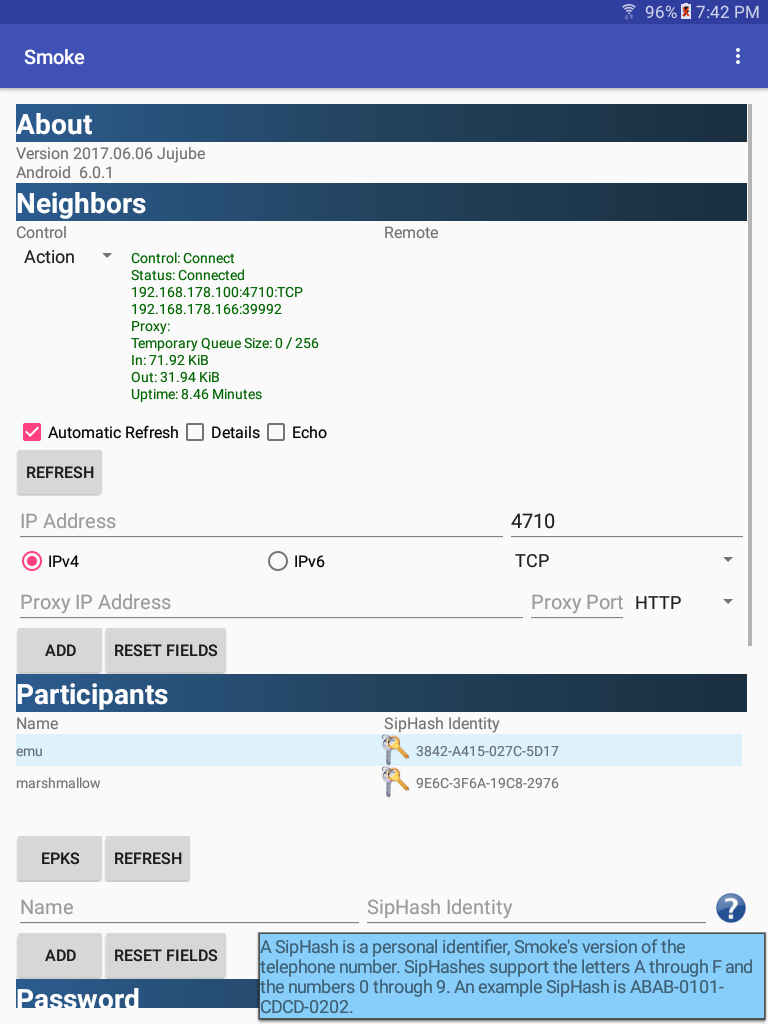
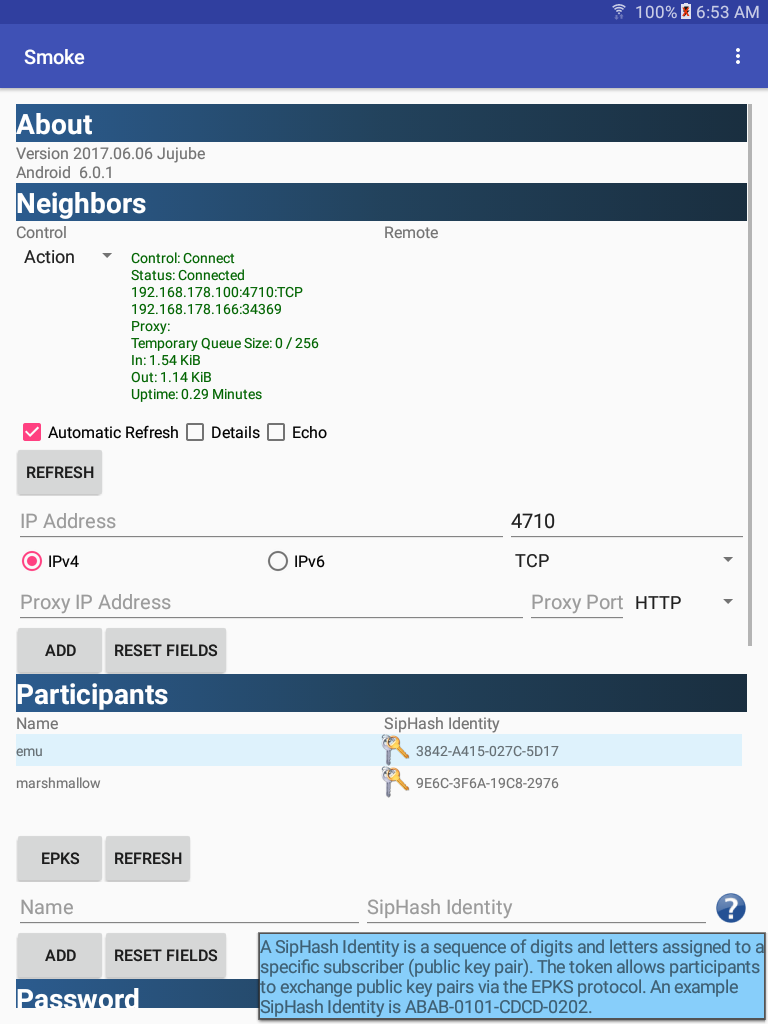
Text and image changes.

diff --git a/Smoke/app/src/main/java/org/purple/smoke/Settings.java b/Smoke/app/src/main/java/org/purple/smoke/Settings.java
@@ -1101,14 +1101,11 @@ public class Settings extends AppCompatActivity
 
 		textView.setBackgroundColor(Color.rgb(135, 206, 250));
 		textView.setText
-		    ("A SipHash Identity is similar " +
-		     "to a telephone number. " +
-		     "The per-participant token is used for enveloping " +
-		     "your public key pair(s) and transferring them " +
-		     "to the list of participants via the EPKS protocol. " +
-		     "SipHashes support the letters A through F and the " +
-		     "numbers 0 through 9. An example SipHash is " +
-		     "ABAB-0101-CDCD-0202.");
+		    ("A SipHash Identity is a sequence of digits and letters " +
+		     "assigned to a specific subscriber (public key pair). " +
+		     "The token allows participants to exchange public " +
+		     "key pairs via the EPKS protocol. " +
+		     "An example SipHash Identity is ABAB-0101-CDCD-0202.");
 		textView.setTextSize(16);
 		popupWindow.setContentView(textView);
 		popupWindow.setOutsideTouchable(true);
